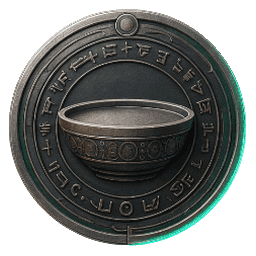
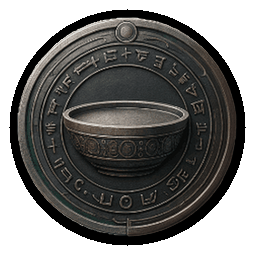
art(badges): 日日新去青边重铸（v2）
源图右下外沿有一道青绿高光弧，被当成未清理的边缘。按 1:1 重出：只把那段
换回与其余环身一致的青铜/枪铁材质，碗、文字环、比例、光照全不动。
归一化到 256 索引 PNG + tRNS 二值 alpha，币面精确占 9..245（237px 盘）。
? v=1 -> v=2；user-badges-artwork 3/3、validate:art 通过。

diff --git a/dashboard/src/ui/achievements/badge-catalog.js b/dashboard/src/ui/achievements/badge-catalog.js
@@ -150,7 +150,7 @@ export const BADGE_CATALOG = [
   { id: "phi_disciple", scope: "local", icon: Sigma, format: "tokens", art: "/achievements/phi-disciple.png?v=2" },
   { id: "spark_alpaca", scope: "local", icon: Bot, format: "tokens", art: "/achievements/spark-alpaca.png?v=2" },
   { id: "iflytek_spark", scope: "local", icon: Sparkles, format: "tokens", art: "/achievements/iflytek-spark.png?v=1" },
-  { id: "sensenova_daily", scope: "local", icon: Sunrise, format: "tokens", art: "/achievements/sensenova-daily.png?v=1" },
+  { id: "sensenova_daily", scope: "local", icon: Sunrise, format: "tokens", art: "/achievements/sensenova-daily.png?v=2" },
   { id: "xiaomi_mimo", scope: "local", icon: Radio, format: "tokens", art: "/achievements/xiaomi-mimo.png?v=1" },
   // Wave-6 badges (2026-10-25)
   { id: "dragon_heir", scope: "local", icon: Crown, format: "count", art: "/achievements/dragon-heir.png?v=3" },
